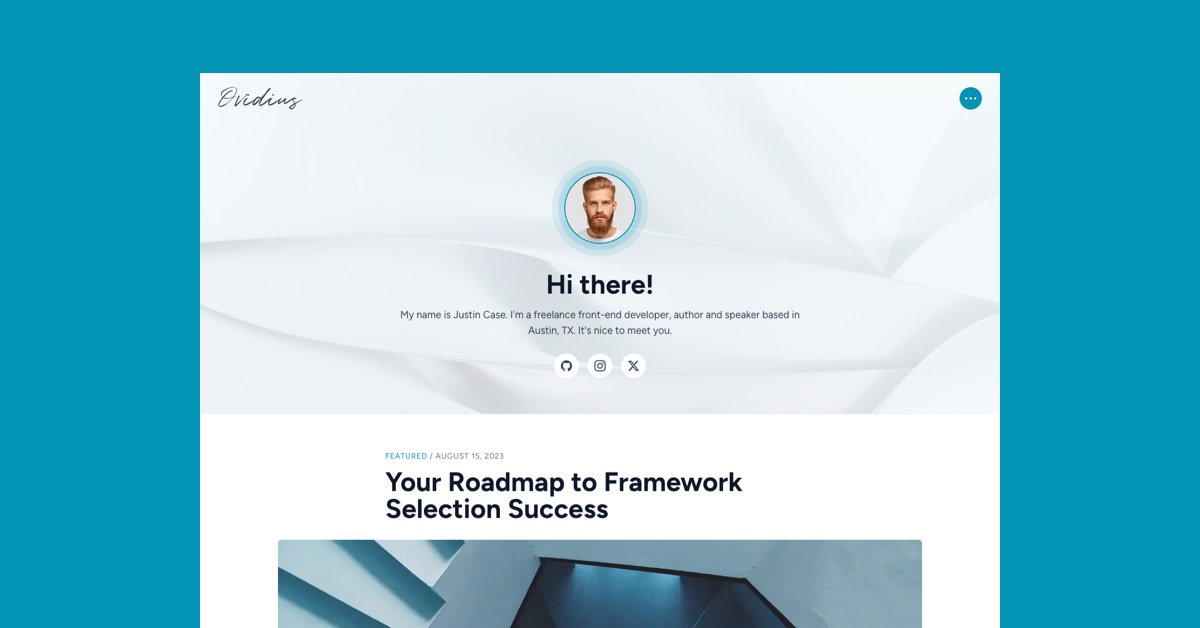
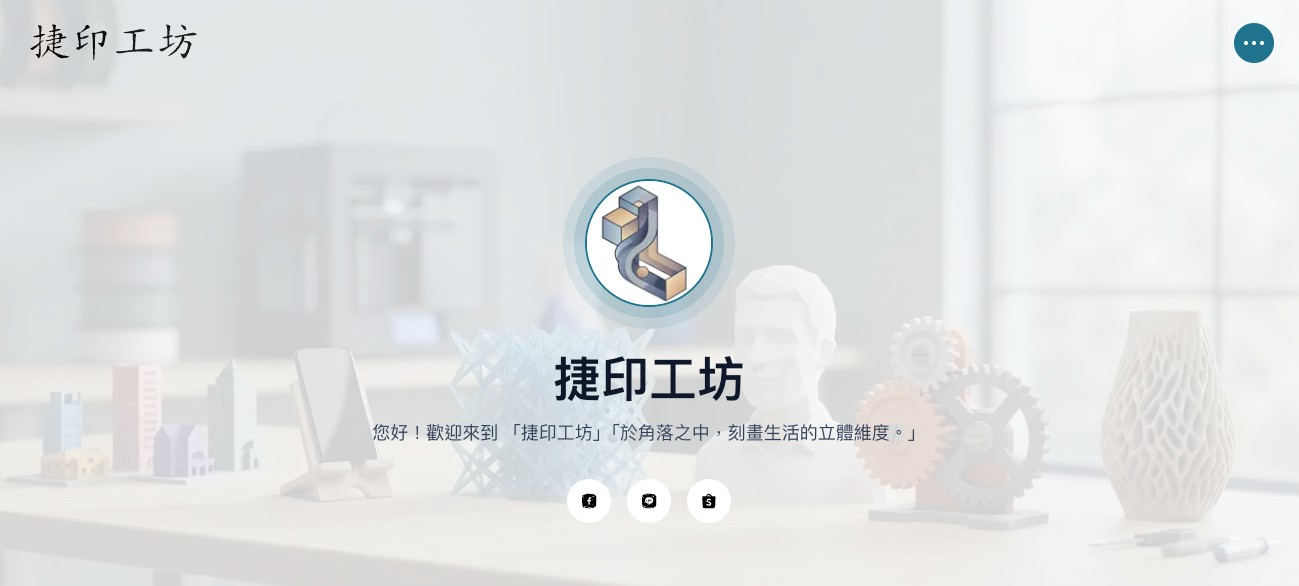
Cambio de Compartir web

diff --git a/src/data/site-config.ts b/src/data/site-config.ts
@@ -7,13 +7,13 @@ import type { SiteConfig } from '../types';
 const siteConfig: SiteConfig = {
     logo: {
         src: logoUrl,
-        alt: 'Ovidius logo'
+        alt: '捷印工坊 logo'
     },
-    title: 'Ovidius',
-    description: 'Astro.js and Tailwind CSS theme for blogging by justgoodui.com',
+    title: '捷印工坊',
+    description: '您好！歡迎來到 「捷印工坊」「於角落之中，刻畫生活的立體維度。」',
     image: {
         src: defaultSocial,
-        alt: 'Ovidius - Astro.js and Tailwind CSS theme'
+        alt: '捷印工坊 - Astro.js and Tailwind CSS theme'
     },
     primaryNavLinks: [
         {
